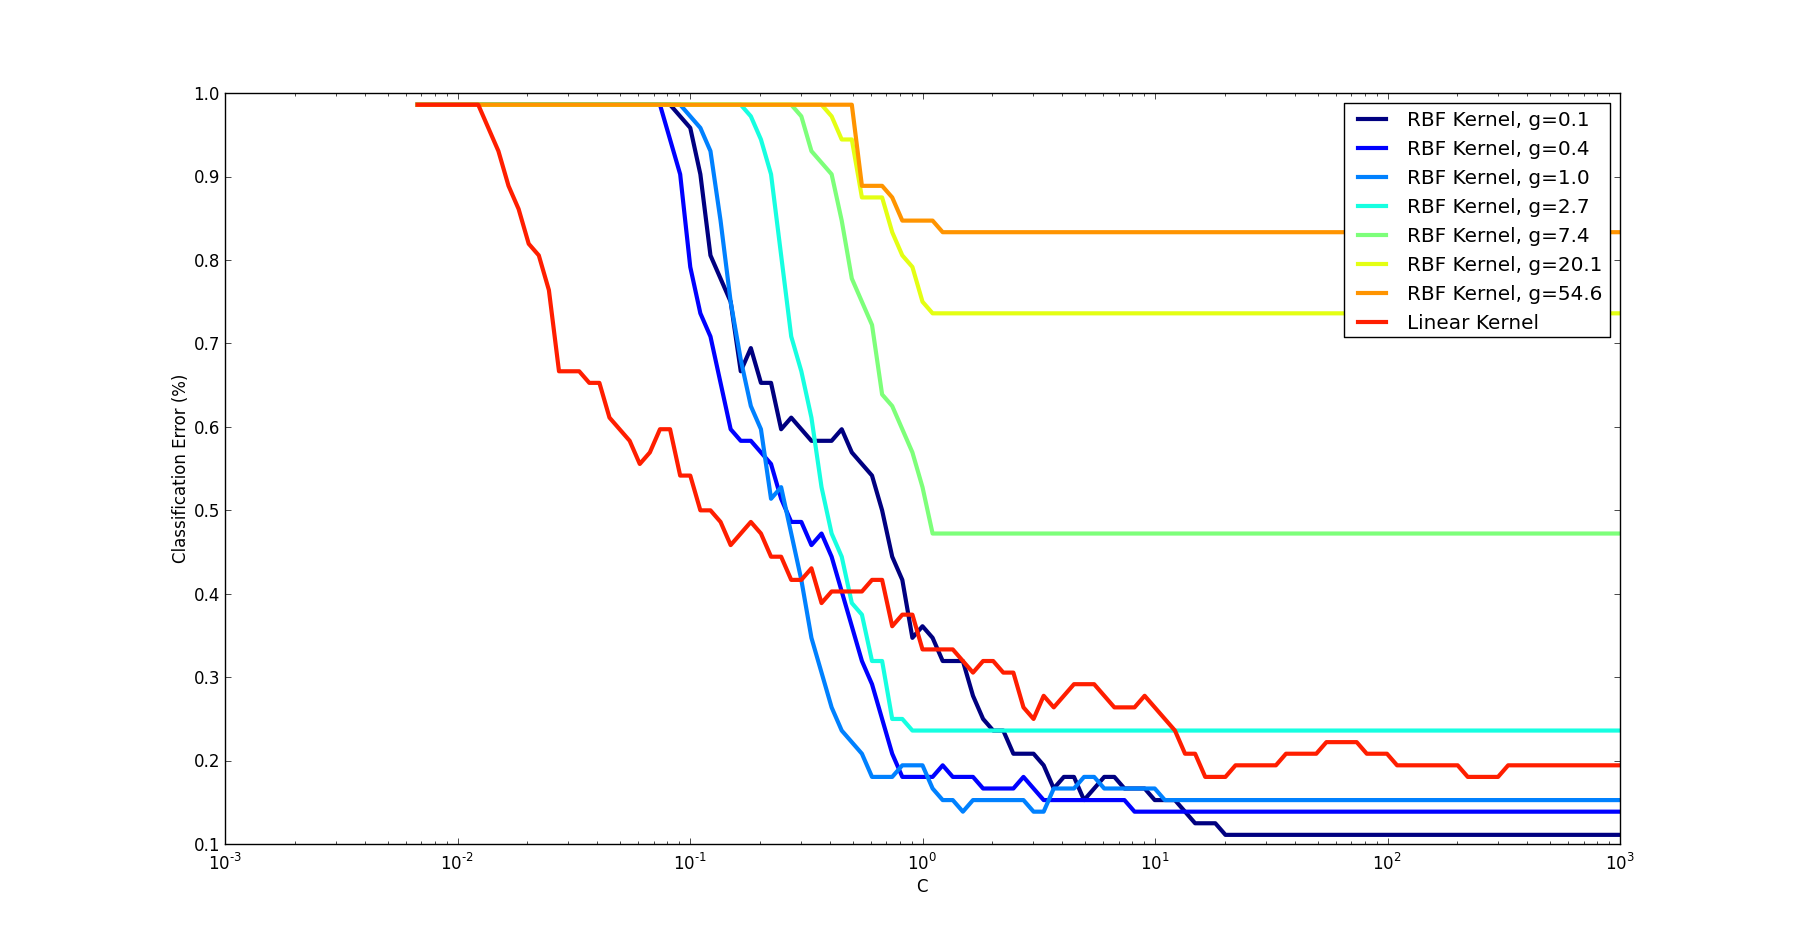
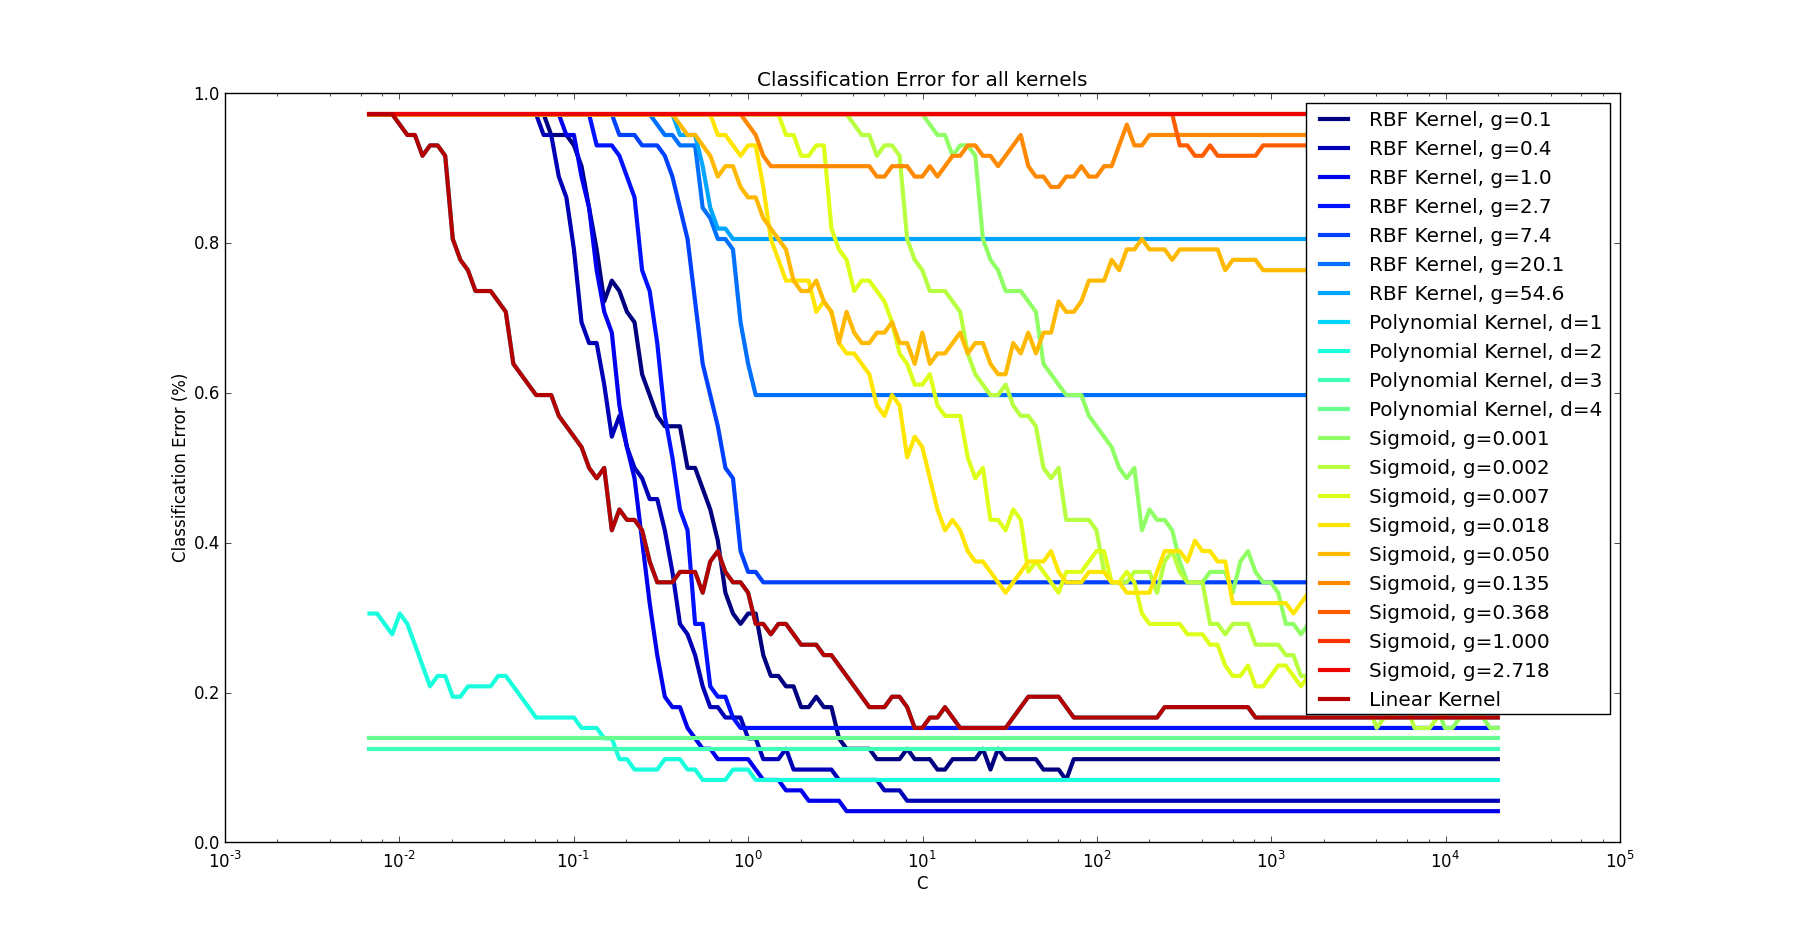
Stuff

diff --git a/svm_all.py b/svm_all.py
@@ -20,8 +20,8 @@ from pylab import *
 from sklearn import svm
 from matplotlib.colors import rgb2hex
 
-#data, classes = libras_loader.load ("data/movement_libras.data")
-data, classes = xml_loader.load ("data/HandWritingModels.xml")
+data, classes = libras_loader.load ("data/movement_libras.data")
+#data, classes = xml_loader.load ("data/HandWritingModels.xml")
 error_train = 0.
 error_test = 0.
 nb_tests = 20
@@ -39,12 +39,14 @@ classes_test  = _cs[train_count:]
 
 C_values = exp (arange(-5, 10, 0.1))
 gamma_values = exp (arange (-2, 5, 1))
+gamma_values_sigmoid = exp (arange (-7, 2, 1))
 degree_values = arange (1, 5, 1)
 error_train_values = zeros (C_values.shape)
 error_test_values = zeros (C_values.shape)
 
 phi = get_cmap('jet')
-colors = [phi(float(i)/float(len(gamma_values)+len(degree_values)+2)) for i in range(len(gamma_values)+len(degree_values)+2)]
+color_count = len(gamma_values) + len(gamma_values_sigmoid) + len(degree_values) + 1
+colors = [phi(float(i)/float(color_count)) for i in range(color_count)]
 
 for j in range(len(gamma_values)):
   for i in range(len(C_values)):
@@ -86,23 +88,26 @@ for j in range(len(degree_values)):
 
   semilogx (C_values, error_test_values, color=colors[j+len(gamma_values)], label="Polynomial Kernel, d={0:.0f}".format(degree), linewidth=3.0)
 
-for i in range(len(C_values)):
-  C = C_values[i]
-  print "  --> Sigmoid, C = {0}".format (C)
+for j in range(len(gamma_values_sigmoid)):
+  for i in range(len(C_values)):
+    gamma = gamma_values_sigmoid[j]
+    C = C_values[i]
+    print "  --> Sigmoid, Gamma = {0} ; C = {1}".format (gamma, C)
 
-  # Train SVM
-  model = svm.SVC (C=C, kernel='sigmoid')
-  model.fit (data_train, classes_train)
+    # Train SVM
+    model = svm.SVC (C=C, gamma=gamma, kernel='sigmoid')
+    model.fit (data_train, classes_train)
 
-  # Test model
-  predictions_train = model.predict (data_train)
-  predictions_test = model.predict (data_test)
+    # Test model
+    predictions_train = model.predict (data_train)
+    predictions_test = model.predict (data_test)
 
-  # Print errors
-  error_train_values[i] = float(len(find(predictions_train != classes_train)))/float(len(classes_train))
-  error_test_values[i]  = float(len(find(predictions_test != classes_test)))/float(len(classes_test))
+    # Print errors
+    error_train_values[i] = float(len(find(predictions_train != classes_train)))/float(len(classes_train))
+    error_test_values[i]  = float(len(find(predictions_test != classes_test)))/float(len(classes_test))
+    print "       {0}".format (error_test_values[i])
 
-semilogx (C_values, error_test_values, color=colors[-2], linewidth=3.0, label="Sigmoid Kernel")
+  semilogx (C_values, error_test_values, color=colors[j+len(degree_values)+len(gamma_values)], label="Sigmoid, g={0:.3f}".format(gamma), linewidth=3.0)
 
 for i in range(len(C_values)):
   C = C_values[i]

diff --git a/xml_loader.py b/xml_loader.py
@@ -18,10 +18,10 @@ from scipy import *
 from pylab import *
 from scipy.interpolate import interp1d
 
-touch_count = 60
-touch_resolution = 1./float(touch_count)
+touch_count = 30
 
-def load (fname):
+def load (fname, resolution=touch_count):
+  touch_resolution = 1./float(resolution)
   dom = parse (open (fname))
   records = dom.getElementsByTagName("record")
   characters = []
@@ -43,6 +43,7 @@ def load (fname):
 
     # Get list of touches
     moves = record.getElementsByTagName("move")
+    print (" --> Found {0} moves".format (len (moves)))
 
     # Arrange touches into distance, angle and touched? lists
     distance = []
@@ -57,8 +58,14 @@ def load (fname):
       if _cd == 0 or last_distance > _cd:
         continue
       _ca = float (move.getAttribute ("angle"))
-      if _ca < last_angle:
+      _dc1 = last_angle - _ca
+      _dc2 = last_angle - (_ca + 2*pi)
+      _dc3 = last_angle - (_ca - 2*pi)
+      _dci = argmin ((_dc1, _dc2, _dc3))
+      if _dci == 1:
         _ca = _ca + 2*pi
+      elif dci == 2:
+        _ca = _ca - 2*pi
 
       distance.append (_cd)
       angle.append (_ca)

diff --git a/svm_rbf.py b/svm_rbf.py
@@ -18,6 +18,7 @@ from numpy import *
 from scipy import *
 from pylab import *
 from sklearn import svm
+from sklearn.multiclass import *
 from matplotlib.colors import rgb2hex
 
 #data, classes = libras_loader.load ("data/movement_libras.data")
@@ -52,7 +53,9 @@ for j in range(len(C_values)):
     print "  --> Gamma = {0} ; C = {1}".format (gamma, C)
 
     # Train SVM
-    model = svm.SVC (C=C, gamma=gamma, kernel='rbf')
+    #model = OneVsRestClassifier (svm.SVC (C=C, gamma=gamma, kernel='rbf'))
+    model = OneVsOneClassifier (svm.SVC (C=C, gamma=gamma, kernel='rbf'))
+    #model = OutputCodeClassifier (svm.SVC (C=C, gamma=gamma, kernel='rbf'), 1.5)
     model.fit (data_train, classes_train)
 
     # Test model
